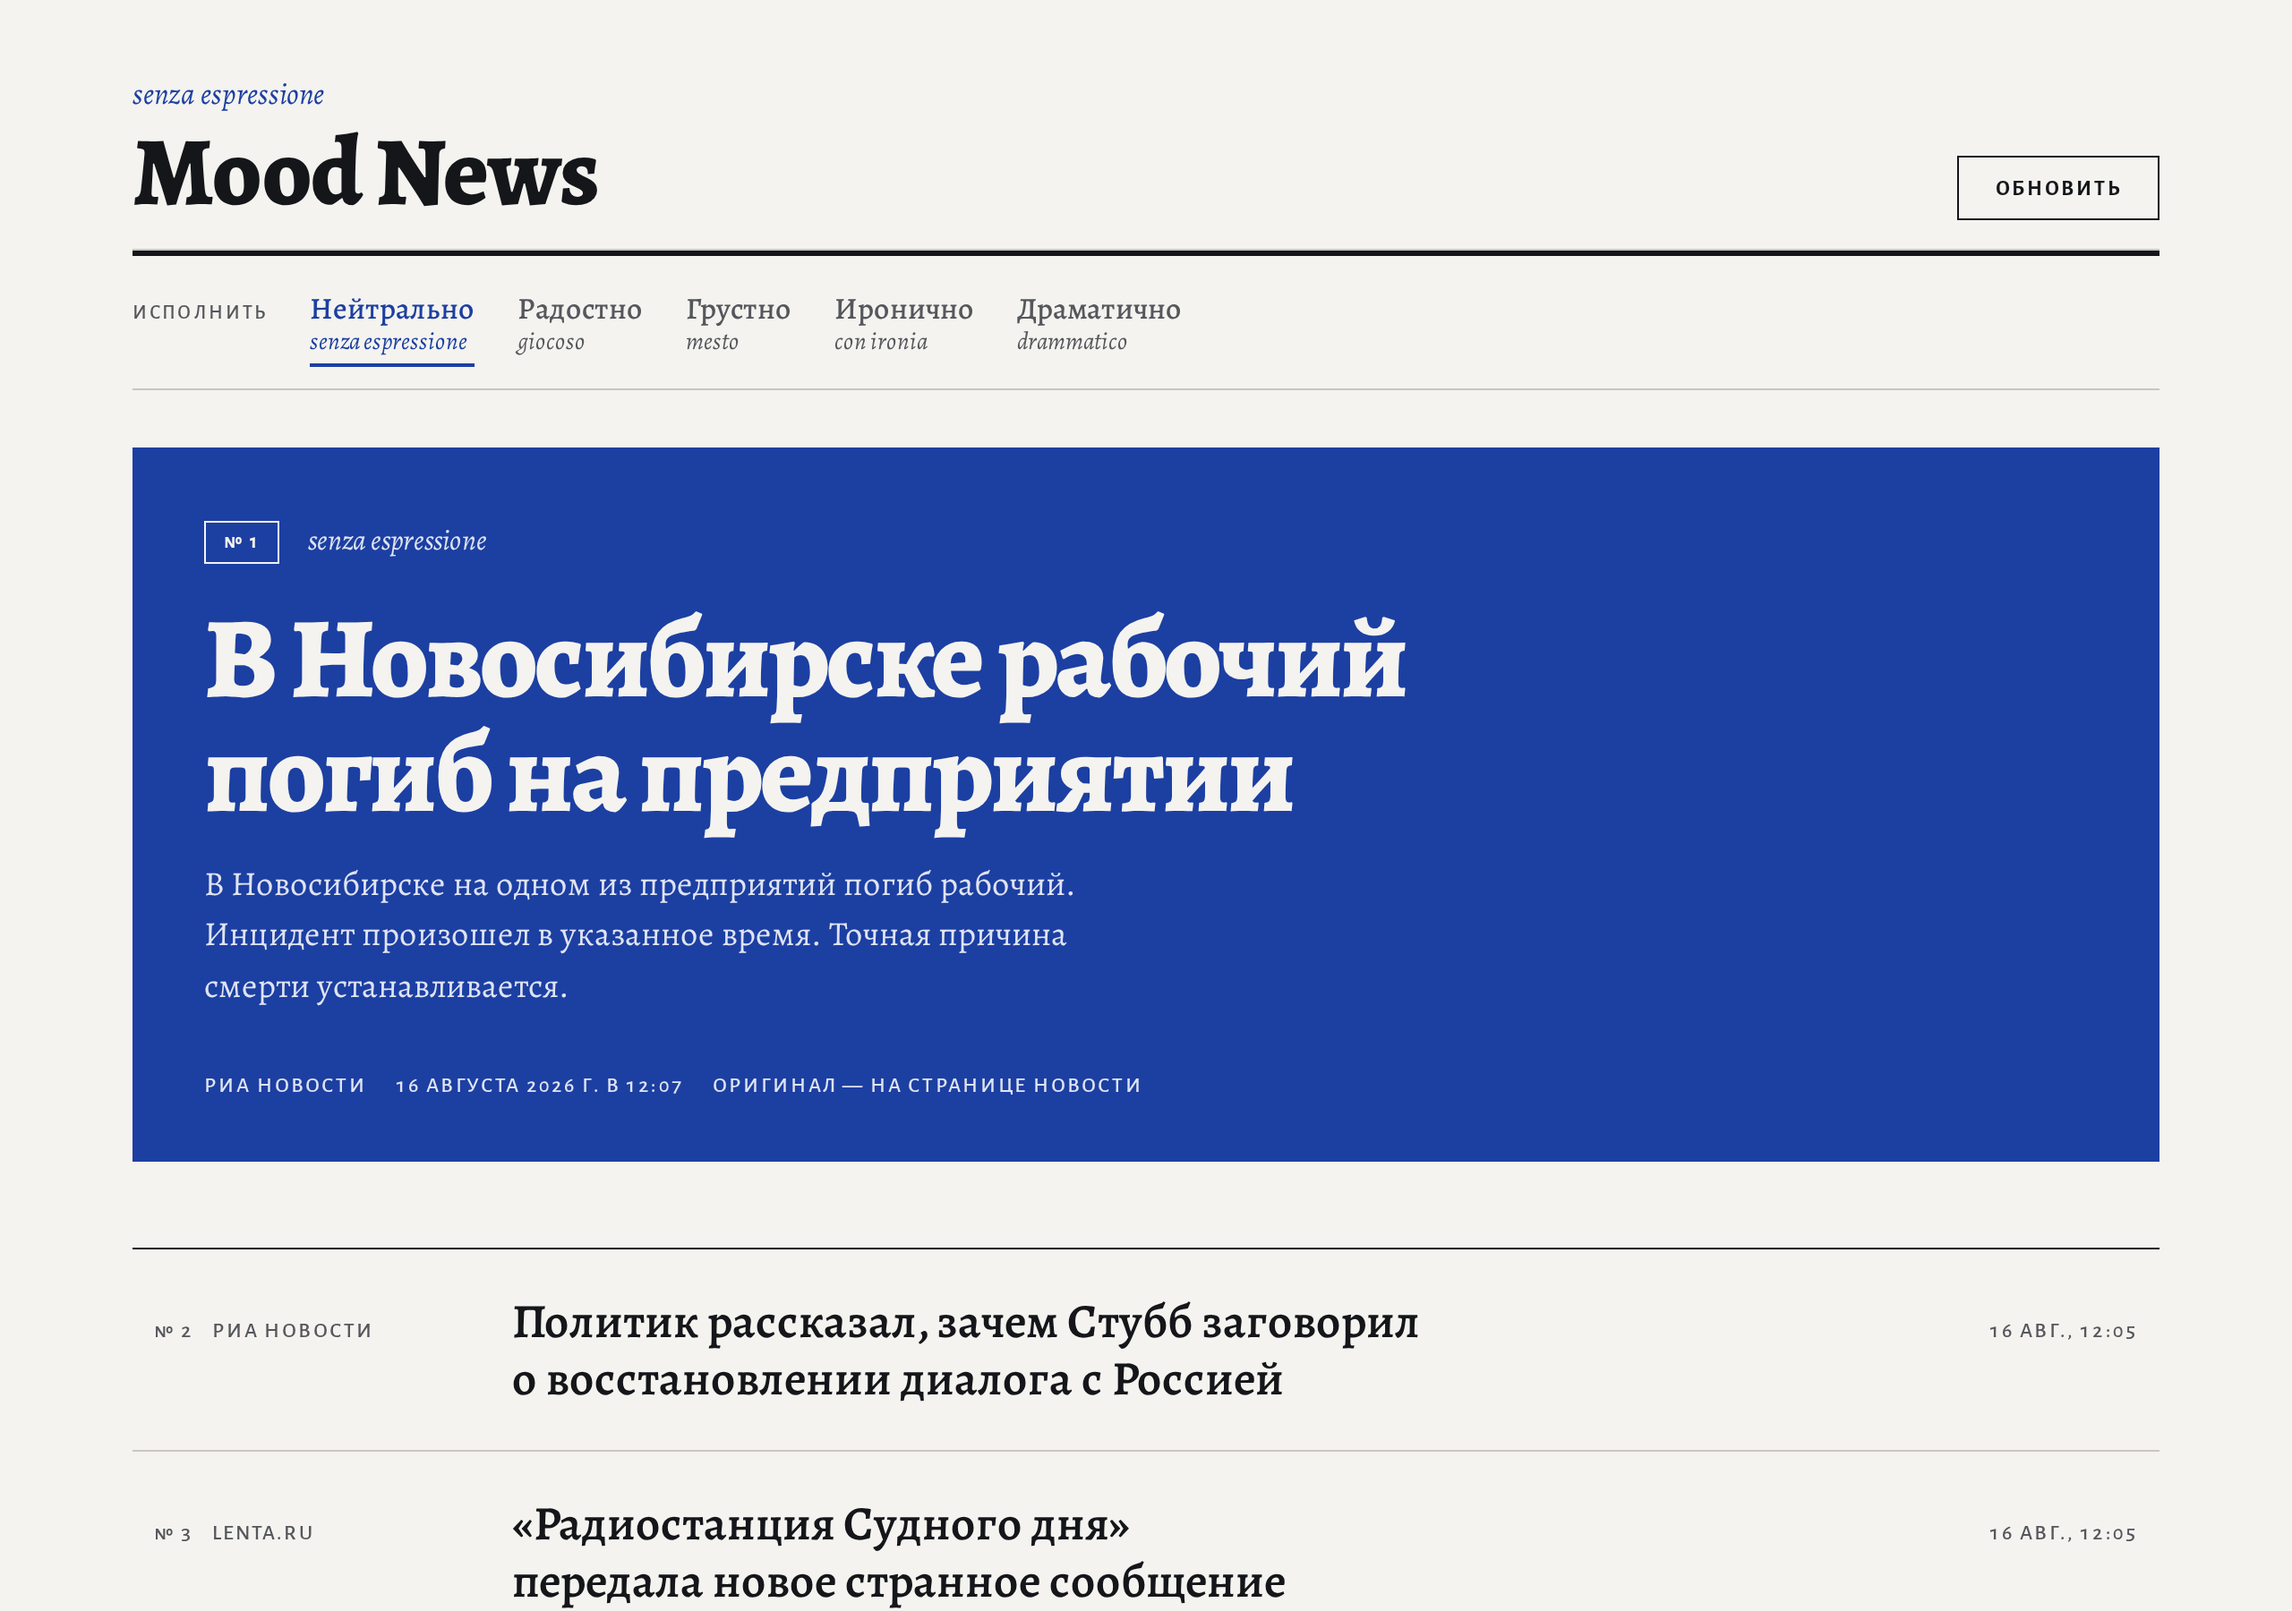
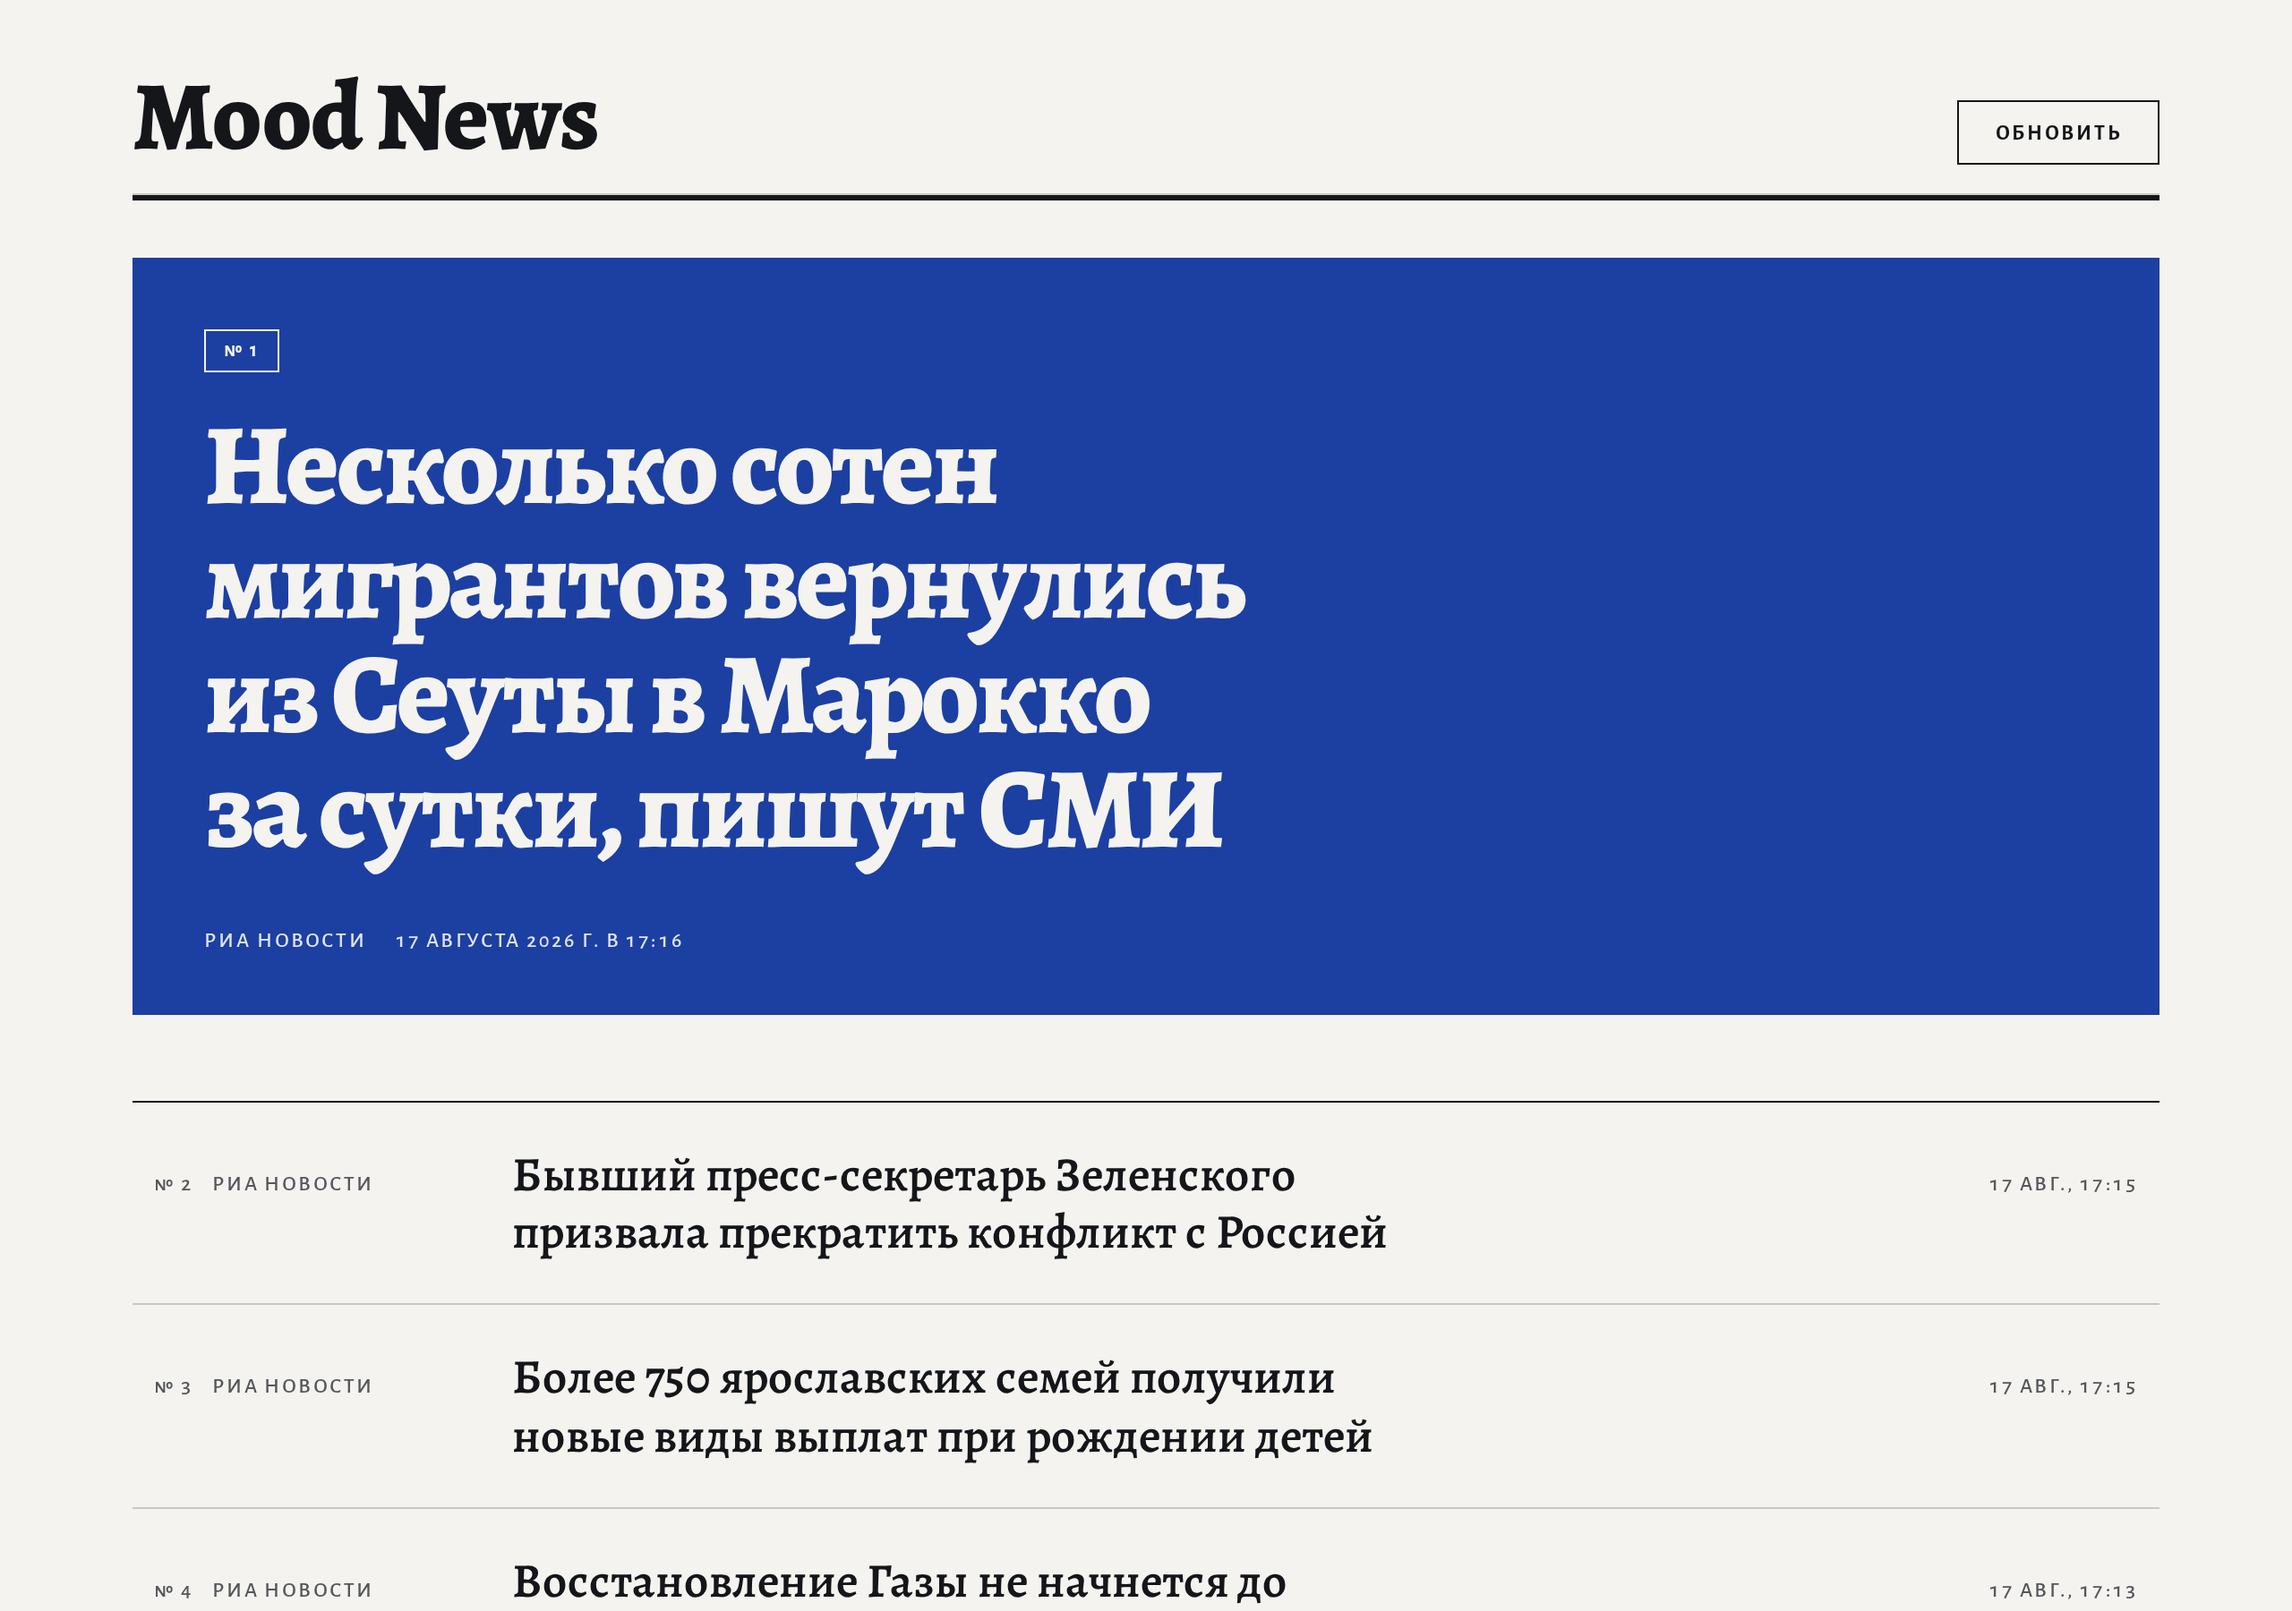
deploy: single-service Render blueprint — server serves the built web app

diff --git a/server/src/app.ts b/server/src/app.ts
@@ -1,4 +1,5 @@
 import { Hono } from 'hono'
+import { serveStatic } from '@hono/node-server/serve-static'
 import type { DatabaseSync } from 'node:sqlite'
 import { healthPayload } from './health.ts'
 import { listArticles, getArticle } from './db.ts'
@@ -66,6 +67,12 @@ export function createApp(db: DatabaseSync): Hono {
     const result = await ingest(db)
     return c.json(ingestResultSchema.parse(result))
   })
+
+  // Прод-раздача собранного фронта тем же процессом — один Render-сервис вместо
+  // двух (нет отдельного статик-хостинга и rewrite-правил). Нет /api, нет
+  // роутера на фронте — отдать файл или, для остальных путей, index.html.
+  app.use('*', serveStatic({ root: '../web/dist' }))
+  app.use('*', serveStatic({ path: '../web/dist/index.html' }))
 
   return app
 }
